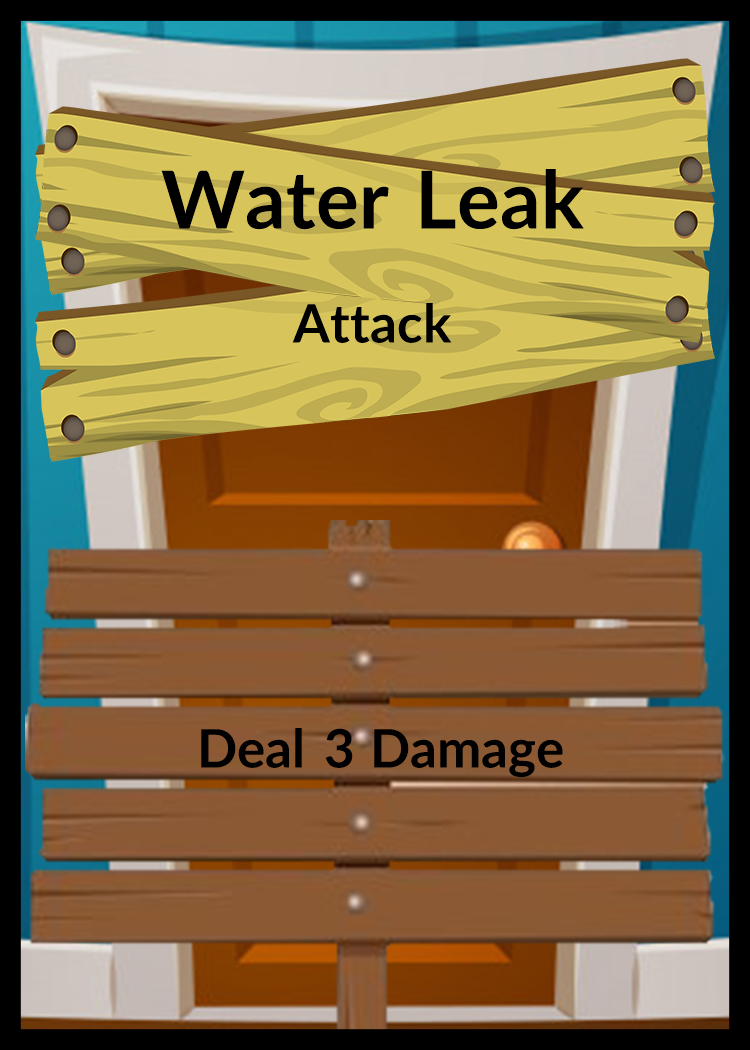
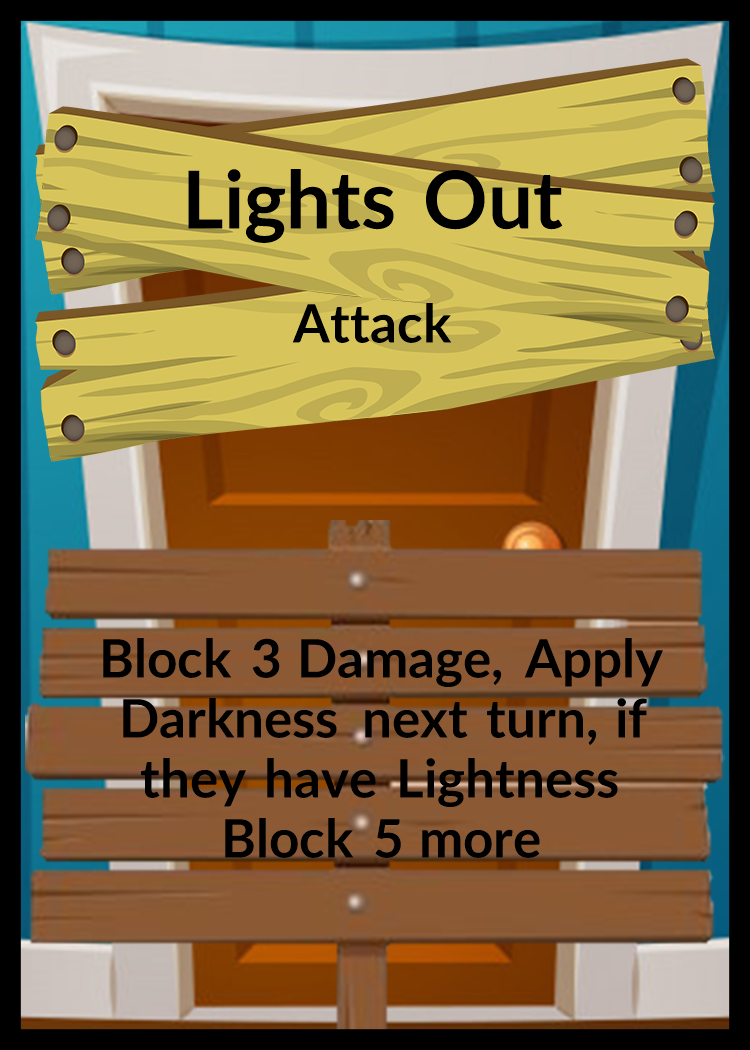
added fan blades, lights out, and blinding lights

Changed region(s): [[0.1227, 0.6095, 0.8893, 0.8229], [0.2147, 0.1524, 0.5213, 0.2438], [0.552, 0.1524, 0.7667, 0.2438]]

diff --git a/MonoDragons.GGJ/GGJ/Gameplay/Characters/Character.cs b/MonoDragons.GGJ/GGJ/Gameplay/Characters/Character.cs
@@ -26,45 +26,23 @@ namespace MonoDragons.GGJ.Gameplay
             Event.Subscribe<NextAttackEmpowered>(OnNextAttackEmpowered, this);
             Event.Subscribe<DamageTakenMultiplied>(OnDamageTakenMultiplied, this);
             Event.Subscribe<BlockRecievedMultiplied>(OnBlockRecievedMultiplied, this);
+            Event.Subscribe<StatusApplied>(OnStatusApplied, this);
             Event.Subscribe<CardResolutionBegun>(e => Resolve(), this);
             Event.Subscribe<PlayerDamaged>(OnPlayereDamaged, this);
         }
 
-        private void OnAttacked(PlayerDamageProposed e)
-        {
-            if (e.Target == _player)
-                State.IncomingDamage += e.Amount;
-        }
+        private void OnAttacked(PlayerDamageProposed e) => ExecuteIfTarget(e.Target, () => State.IncomingDamage += e.Amount);
 
-        private void OnDefended(PlayerBlockProposed e)
-        {
-            if (e.Target == _player)
-                State.AvailableBlock += e.Amount;
-        }
+        private void OnDefended(PlayerBlockProposed e) => ExecuteIfTarget(e.Target, () => State.AvailableBlock += e.Amount);
 
-        private void OnDamagedEffectQueued(DamageEffectQueued e)
-        {
-            if (e.Target == _player)
-                State.OnDamaged.Add(e.Event);
-        }
+        private void OnDamagedEffectQueued(DamageEffectQueued e) => ExecuteIfTarget(e.Target, () => State.OnDamaged.Add(e.Event));
 
-        private void OnNotDamagedEffectQueued(NotDamagedEffectQueued e)
-        {
-            if (e.Target == _player)
-                State.OnNotDamaged.Add(e.Event);
-        }
+        private void OnNotDamagedEffectQueued(NotDamagedEffectQueued e) => ExecuteIfTarget(e.Target, () => State.OnNotDamaged.Add(e.Event));
 
-        private void OnDamageBlockedEffectQueued(DamageBlockedEffectQueued e)
-        {
-            if (e.Target == _player)
-                State.OnDamageBlocked.Add(e.Event);
-        }
+        private void OnDamageBlockedEffectQueued(DamageBlockedEffectQueued e) => ExecuteIfTarget(e.Target, () => State.OnDamageBlocked.Add(e.Event));
 
-        private void OnDamageNotBlockedEffectQueued(DamageNotBlockedEffectQueued e)
-        {
-            if (e.Target == _player)
-                State.OnDamageNotBlocked.Add(e.Event);
-        }
+        private void OnDamageNotBlockedEffectQueued(DamageNotBlockedEffectQueued e) => 
+            ExecuteIfTarget(e.Target, () => State.OnDamageNotBlocked.Add(e.Event));
 
         private void OnCardTypeSelected(CardSelected e)
         {
@@ -75,22 +53,20 @@ namespace MonoDragons.GGJ.Gameplay
             }
         }
 
-        private void OnNextAttackEmpowered(NextAttackEmpowered e)
-        {
-            if (e.Target == _player)
-                State.NextAttackBonus += e.Amount;
-        }
+        private void OnNextAttackEmpowered(NextAttackEmpowered e) => ExecuteIfTarget(e.Target, () => State.NextAttackBonus += e.Amount);
 
-        private void OnDamageTakenMultiplied(DamageTakenMultiplied e)
-        {
-            if (e.Target == _player)
-                State.DamageTakenMultipliers.Add(e.Multiplier);
-        }
+        private void OnDamageTakenMultiplied(DamageTakenMultiplied e) => 
+            ExecuteIfTarget(e.Target, () => State.DamageTakenMultipliers.Add(e.Multiplier));
 
-        private void OnBlockRecievedMultiplied(BlockRecievedMultiplied e)
+        private void OnBlockRecievedMultiplied(BlockRecievedMultiplied e) => 
+            ExecuteIfTarget(e.Target, () => State.BlockRecievedMultiplier.Add(e.Multiplier));
+
+        private void OnStatusApplied(StatusApplied e) => ExecuteIfTarget(e.Target, () => State.Statuses.Add(e.Status));
+
+        private void ExecuteIfTarget(Player target, Action action)
         {
-            if (e.Target == _player)
-                State.BlockRecievedMultiplier.Add(e.Multiplier);
+            if (target == _player)
+                action();
         }
 
         private void Resolve()
@@ -116,20 +92,23 @@ namespace MonoDragons.GGJ.Gameplay
             Reset();
         }
 
-        private void OnPlayereDamaged(PlayerDamaged e)
-        {
-            if (e.Target == _player)
-                State.HP -= e.Amount;
-        }
-
         private void Reset()
         {
             State.IncomingDamage = 0;
             State.AvailableBlock = 0;
-            State.OnNotDamaged = new List<object>();
             State.OnDamaged = new List<object>();
+            State.OnNotDamaged = new List<object>();
+            State.OnDamageBlocked = new List<object>();
+            State.OnDamageNotBlocked = new List<object>();
             State.DamageTakenMultipliers = new List<int>();
             State.BlockRecievedMultiplier = new List<int>();
+            State.Statuses = new List<string>();
+        }
+
+        private void OnPlayereDamaged(PlayerDamaged e)
+        {
+            if (e.Target == _player)
+                State.HP -= e.Amount;
         }
     }
 }

diff --git a/MonoDragons.GGJ/GGJ/Data/Cards.cs b/MonoDragons.GGJ/GGJ/Data/Cards.cs
@@ -27,9 +27,9 @@ namespace MonoDragons.GGJ.Data
             { CardName.Reload, s => new CardView(s, "CowboyCard14") },
 
             { CardName.HousePass, s => new CardView(s, "SmartHouseCard0") },
-            { CardName.ElectricShockSuperAttack, s => new CardView(s, "SmartHouseCard1") },
-            { CardName.WaterLeak, s => new CardView(s, "SmartHouseCard2") },
-            { CardName.Lazer, s => new CardView(s, "SmartHouseCard3") }
+            { CardName.FanBlades, s => new CardView(s, "SmartHouseCard1") },
+            { CardName.LightsOut, s => new CardView(s, "SmartHouseCard2") },
+            { CardName.BlindingLights, s => new CardView(s, "SmartHouseCard3") }
         };
 
         private static Dictionary<CardName, CardType> _cardTypes = new Dictionary<CardName, CardType>
@@ -53,9 +53,9 @@ namespace MonoDragons.GGJ.Data
             { CardName.Reload, CardType.Defend },
 
             { CardName.HousePass, CardType.Pass },
-            { CardName.ElectricShockSuperAttack, CardType.Attack },
-            { CardName.WaterLeak, CardType.Attack },
-            { CardName.Lazer, CardType.Attack }
+            { CardName.FanBlades, CardType.Attack },
+            { CardName.LightsOut, CardType.Defend },
+            { CardName.BlindingLights, CardType.Attack }
         };
 
         private static Dictionary<CardName, Action<GameData>> _cardActions = new Dictionary<CardName, Action<GameData>>
@@ -152,9 +152,27 @@ namespace MonoDragons.GGJ.Data
                 } },
 
             { CardName.HousePass, data => {} },
-            { CardName.ElectricShockSuperAttack, data => Event.Publish(new PlayerDamageProposed { Amount = 3, Target = Player.Cowboy }) },
-            { CardName.WaterLeak, data => Event.Publish(new PlayerDamageProposed { Amount = 3, Target = Player.Cowboy }) },
-            { CardName.Lazer, data => Event.Publish(new PlayerDamageProposed { Amount = 3, Target = Player.Cowboy }) },
+            { CardName.FanBlades, data => Event.Publish(new PlayerDamageProposed { Amount = 3, Target = Player.Cowboy }) },
+            { CardName.LightsOut, data =>
+                {
+                    Event.Publish(new PlayerBlockProposed { Amount = 3, Target = Player.House } );
+                    Event.Publish(new NextTurnEffectQueued { Event = new StatusApplied { Target = Player.Cowboy, Status = "Darkness" } });
+                    if (data.CowboyState.Statuses.Contains("Lightness"))
+                        Event.Publish(new PlayerBlockProposed { Amount = 5, Target = Player.House });
+                }
+            },
+            { CardName.BlindingLights, data =>
+                {
+                    Event.Publish(new PlayerDamageProposed { Amount = 1, Target = Player.Cowboy });
+                    Event.Publish(new PlayerBlockProposed { Amount = 1, Target = Player.House } );
+                    Event.Publish(new NextTurnEffectQueued { Event = new StatusApplied { Target = Player.Cowboy, Status = "Lightness" } });
+                    if (data.CowboyState.Statuses.Contains("Darkness"))
+                    {
+                        Event.Publish(new PlayerDamageProposed { Amount = 2, Target = Player.Cowboy });
+                        Event.Publish(new PlayerBlockProposed { Amount = 2, Target = Player.House } );
+                    }
+                }
+            },
         };
 
         public static CardView Create(CardState s)
@@ -190,8 +208,8 @@ namespace MonoDragons.GGJ.Data
         Reload = 19,
 
         HousePass = 5,
-        ElectricShockSuperAttack = 6,
-        WaterLeak = 7,
-        Lazer = 8
+        FanBlades = 6,
+        LightsOut = 7,
+        BlindingLights = 8
     }
 }

diff --git a/MonoDragons.GGJ/Program.cs b/MonoDragons.GGJ/Program.cs
@@ -38,7 +38,7 @@ namespace MonoDragons.Core
                 DebugLogWindow.Exclude(x => x.StartsWith("ActiveElementChanged"));
                 netArgs = args.Length == 0 ? new NetworkArgs(true, true, "127.0.0.1", 4567) : netArgs;
 #endif
-                using (var game = new NeedlesslyComplexMainGame(AppDetails.Name, "Game", new Display(1600, 900, false), SetupScene(netArgs), CreateKeyboardController(), ErrorHandler))
+                using (var game = new NeedlesslyComplexMainGame(AppDetails.Name, "Lobby", new Display(1600, 900, false), SetupScene(netArgs), CreateKeyboardController(), ErrorHandler))
                     game.Run();
             }, ErrorHandler.Handle);
         }

diff --git a/MonoDragons.GGJ/GGJ/Gameplay/Characters/CharacterState.cs b/MonoDragons.GGJ/GGJ/Gameplay/Characters/CharacterState.cs
@@ -18,6 +18,7 @@ namespace MonoDragons.GGJ.Gameplay
         public List<object> OnDamageNotBlocked { get; set; }
         public List<int> DamageTakenMultipliers { get; set; }
         public List<int> BlockRecievedMultiplier { get; set; }
+        public List<string> Statuses { get; set; }
 
         public CharacterState(Player player, int hp, PlayerCardsState cards)
         {
@@ -30,6 +31,7 @@ namespace MonoDragons.GGJ.Gameplay
             OnDamageNotBlocked = new List<object>();
             DamageTakenMultipliers = new List<int>();
             BlockRecievedMultiplier = new List<int>();
+            Statuses = new List<string>();
         }
     }
 }

diff --git a/MonoDragons.GGJ/GGJ/Gameplay/LevelProgression.cs b/MonoDragons.GGJ/GGJ/Gameplay/LevelProgression.cs
@@ -38,9 +38,9 @@ namespace MonoDragons.GGJ.Gameplay
                 new CharacterState(Player.House, 10,
                     new PlayerCardsState(
                         CreateCard(CardName.HousePass),
-                        CreateCard(CardName.Lazer),
-                        CreateCard(CardName.WaterLeak),
-                        CreateCard(CardName.ElectricShockSuperAttack))));
+                        CreateCard(CardName.FanBlades),
+                        CreateCard(CardName.LightsOut),
+                        CreateCard(CardName.BlindingLights))));
 
             _house.Initialized(Enemies.Create(Enemy.Bed));
         }

diff --git a/MonoDragons.GGJ/GGJ/Gameplay/Events/StatusApplied.cs b/MonoDragons.GGJ/GGJ/Gameplay/Events/StatusApplied.cs
@@ -1,0 +1,8 @@
+namespace MonoDragons.GGJ.Gameplay.Events
+{
+    public class StatusApplied
+    {
+        public Player Target { get; set; }
+        public string Status { get; set; }
+    }
+}
